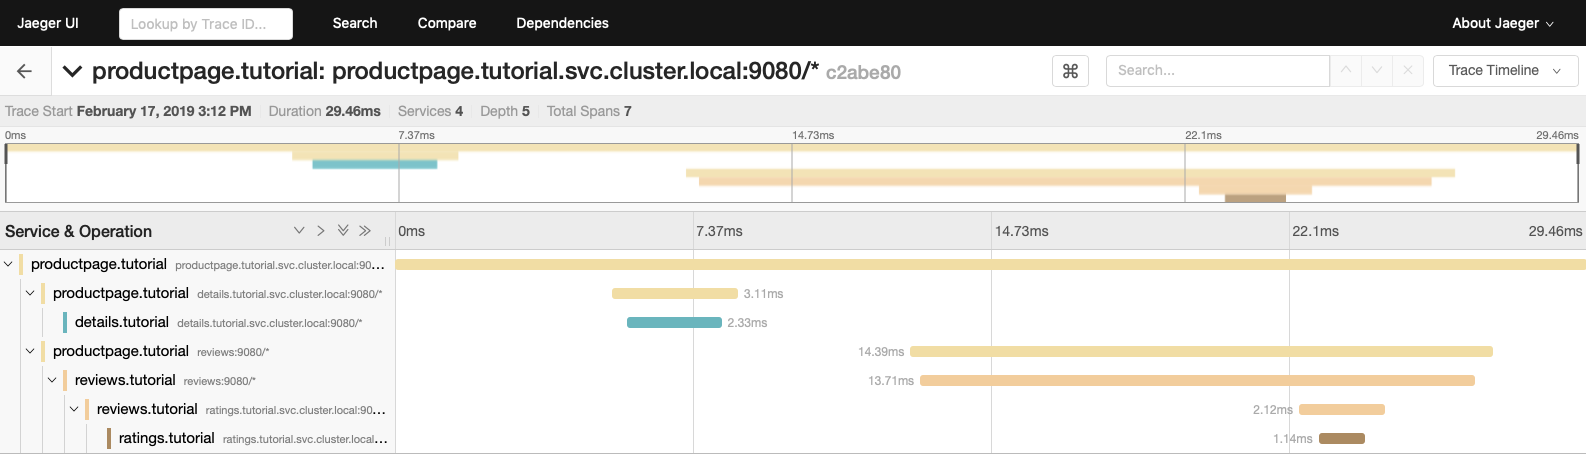
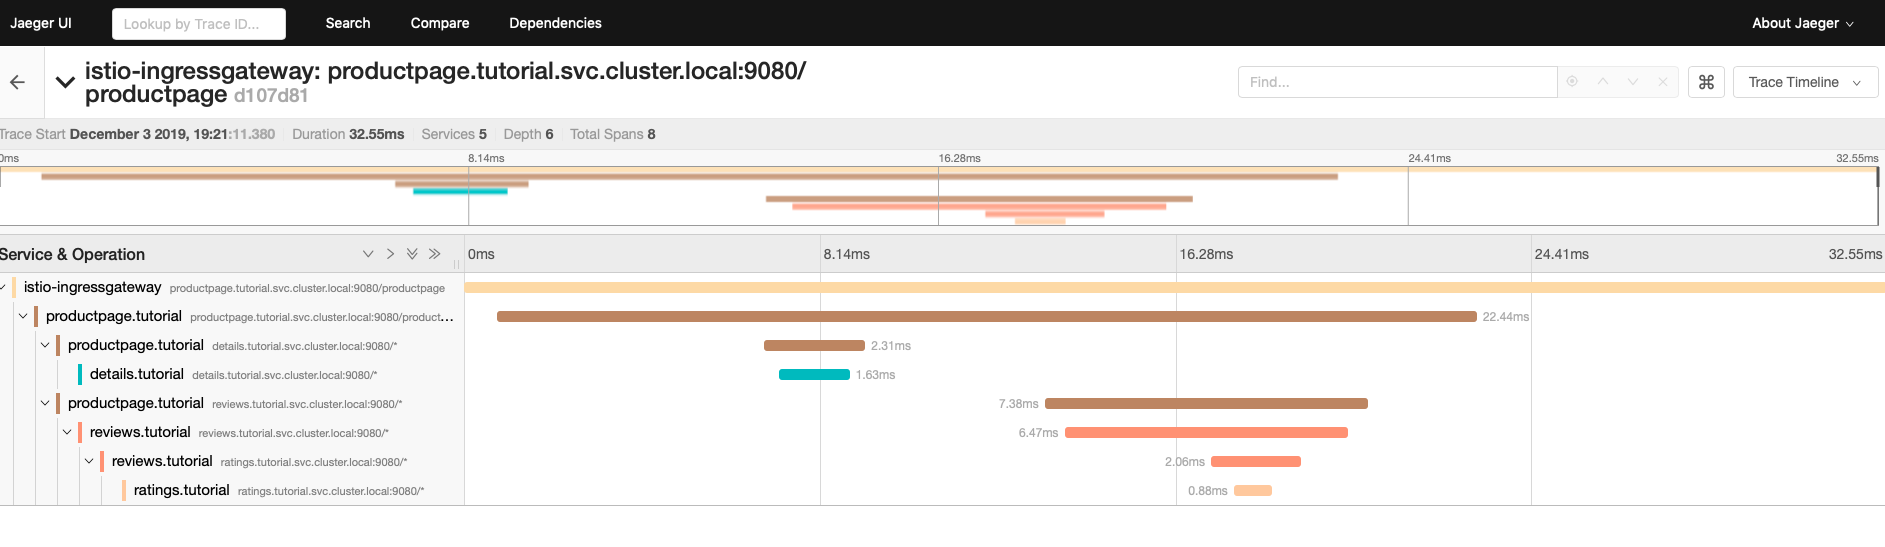
update distributed tracing

diff --git a/content/en/docs/tutorial/distributed-tracing-with-istio/index.md b/content/en/docs/tutorial/distributed-tracing-with-istio/index.md
@@ -37,14 +37,14 @@ In this module you examine the traces of your application.
         caption="Jaeger UI, productpage trace"
         >}}
 
-    You can see the date and the time when the trace was captured and that the whole chain of calls took 29.46 ms.
-    You can see that `productpage` called `details` and that it took 2.33 ms for `details` to return a response.
+    You can see the date and the time when the trace was captured and that the whole chain of calls took 32.55 ms.
+    You can see that `productpage` called `details` and that it took 1.63 ms for `details` to return a response.
     For `productpage`, the time that elapsed between the call to `details` and getting a response from it,
-    was 3.11 ms.
-    `productpage` also called `reviews` which called `ratings`. For `ratings` it took 1.14 ms to return a response,
-    for `reviews`, the time that elapsed between the call to `ratings` and getting a response from it, was 2.12 ms.
-    For `reviews` it took 13.71 ms to return a response. You can see from the trace that the major contribution to the
-    latency of the chain was by `reviews` (13.71 ms out of the whole 29.46 ms).
+    was 2.31 ms.
+    `productpage` also called `reviews` which called `ratings`. For `ratings` it took 0.88 ms to return a response,
+    for `reviews`, the time that elapsed between the call to `ratings` and getting a response from it, was 2.06 ms.
+    For `reviews` it took 7.38 ms to return a response. You can see from the trace that the major contribution to the
+    latency of the chain was by `reviews` (7.38 ms out of the whole 32.55 ms).
 
 Note that most of the Istio features are transparent to applications, which means you need to change neither the
 applications' code nor their container environment.
